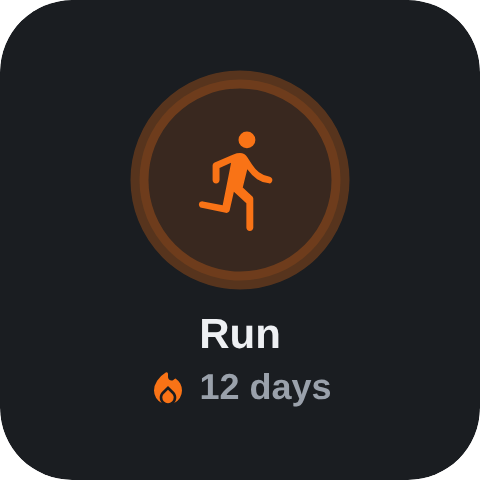
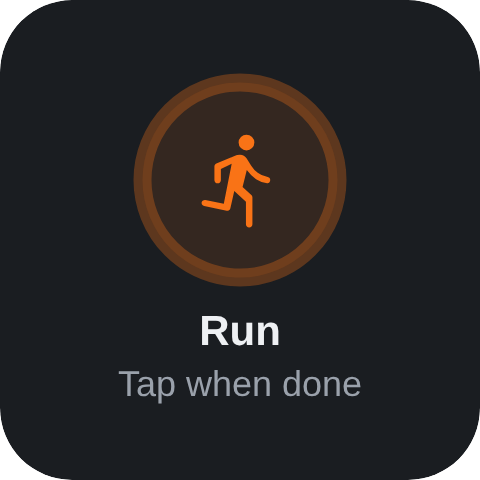
Single habit widget: 1x1 size and clearer states
- Can be placed from one cell up. 1x1 is just the ring: count habits keep
  their icon above "5/8"; done shows the icon with a check badge.
- 2x1/3x1 put the ring beside the name; 2x2 stacks them.
- Same button language as Today: count inside the ring, check when done,
  icon in an open ring when there's still something to do.
- Hint line says what a tap does ("Tap for +1", "Tap when done"), and
  the streak once it's done.
- Widgets page previews the new sizes (1x1, 2x1, 2x2; Today one row).

Claude-Session: https://claude.ai/code/session_01EoyMmteGNvxgjbaRmb7Gdn

diff --git a/src/widget/widgets.tsx b/src/widget/widgets.tsx
@@ -214,10 +214,26 @@ function Empty({ t, icon, title, body }: { t: Theme; icon: string; title: string
  * What a Today button shows in its middle, so its state reads without labels:
  * done = check mark on a solid disc; count habits = how far along ("3/20"); yes/no = the habit's icon.
  */
-function buttonSvg(r: TodayRow, size: number, t: Theme) {
+type ButtonState = Pick<TodayRow, 'done' | 'color' | 'slipped' | 'avoid' | 'numeric' | 'value' | 'target' | 'progress' | 'icon'>;
+
+function buttonSvg(r: ButtonState, size: number, t: Theme, iconWithCount = false) {
   const cx = size / 2;
   const stroke = Math.max(3, Math.round(size / 12));
   const ring = cx - stroke / 2 - 0.5;
+  if (r.done && iconWithCount) {
+    // Alone on a 1x1: keep the habit's icon so you know which one is done, with a check badge.
+    const s = size * 0.46;
+    const b = size * 0.17;
+    const bx = cx + size * 0.27;
+    return (
+      svgOpen(size) +
+      `<circle cx="${cx}" cy="${cx}" r="${cx - 0.5}" fill="${r.color}"/>` +
+      glyph(HABIT_ICONS[r.icon].d, '#ffffff', cx - s / 2, cx - s / 2 - size * 0.02, s) +
+      `<circle cx="${bx}" cy="${bx}" r="${b}" fill="#ffffff"/>` +
+      glyph(UI_ICONS.check, r.color, bx - b * 0.75, bx - b * 0.75, b * 1.5) +
+      `</svg>`
+    );
+  }
   if (r.done) {
     const s = size * 0.5;
     return svgOpen(size) + `<circle cx="${cx}" cy="${cx}" r="${cx - 0.5}" fill="${r.color}"/>` + glyph(UI_ICONS.check, '#ffffff', cx - s / 2, cx - s / 2, s) + `</svg>`;
@@ -226,6 +242,20 @@ function buttonSvg(r: TodayRow, size: number, t: Theme) {
   const track =
     `<circle cx="${cx}" cy="${cx}" r="${ring}" fill="${tone}" fill-opacity="0.12" stroke="${tone}" stroke-opacity="${r.slipped ? 1 : 0.3}" stroke-width="${stroke}"/>` +
     (r.numeric ? arc(cx, ring, stroke, r.color, r.progress) : '');
+  if (r.numeric && iconWithCount) {
+    // No name next to it (e.g. a 1x1 widget): keep the habit's icon on top so you know which one it is.
+    const ic = size * 0.22;
+    const big = Math.round(size * (String(r.value).length > 3 ? 0.2 : 0.26));
+    const small = Math.round(size * (String(r.target).length > 3 ? 0.12 : 0.15));
+    return (
+      svgOpen(size) +
+      track +
+      glyph(HABIT_ICONS[r.icon].d, r.color, cx - ic / 2, cx - size * 0.34, ic) +
+      `<text x="${cx}" y="${cx + size * 0.1}" text-anchor="middle" font-family="sans-serif" font-weight="bold" font-size="${big}" fill="${t.text}">${r.value}</text>` +
+      `<text x="${cx}" y="${cx + size * 0.27}" text-anchor="middle" font-family="sans-serif" font-size="${small}" fill="${t.sub}">/${r.target}</text>` +
+      `</svg>`
+    );
+  }
   if (r.numeric) {
     // Big number done, small goal under it. Shrinks for long numbers like 1500/2000.
     const big = Math.round(size * (String(r.value).length > 3 ? 0.24 : 0.32));
@@ -374,54 +404,80 @@ export function TodayWidget({ data, dark, size }: { data: WidgetData; dark: bool
 
 /* ---------- Single habit ---------- */
 
+/** One line under a single-habit widget: what a tap does, or once done, the streak it protects. */
+function habitHint(card: HabitCard, t: Theme): { text: string; icon?: string; color: HexColor } {
+  if (card.avoid)
+    return card.slipped
+      ? { text: 'Slipped today', icon: UI_ICONS['shield-fill'], color: t.danger }
+      : { text: `${card.streak} ${card.streak === 1 ? 'day' : 'days'} clean`, icon: UI_ICONS['shield-fill'], color: card.color };
+  if (card.done)
+    return card.streak > 0
+      ? { text: `${card.streak} ${card.streakUnit}`, icon: UI_ICONS['streak-fill'], color: FLAME }
+      : { text: 'Done for today', color: card.color };
+  if (card.numeric) return { text: `Tap for +${card.step}${card.unit === 'min' ? ' min' : ''}`, color: t.sub };
+  return { text: card.dueToday ? 'Tap when done' : 'Not due today', color: t.sub };
+}
+
+function Hint({ hint, t, center }: { hint: ReturnType<typeof habitHint>; t: Theme; center?: boolean }) {
+  return (
+    <FlexWidget style={{ flexDirection: 'row', alignItems: 'center', justifyContent: center ? 'center' : 'flex-start', marginTop: 2 }}>
+      {hint.icon ? <Svg svg={iconSvg(hint.icon, hint.color, 14)} size={14} mr={3} /> : null}
+      <TextWidget text={hint.text} maxLines={1} truncate="END" style={{ fontSize: 12, fontWeight: hint.icon ? 'bold' : 'normal', color: hint.icon ? t.sub : hint.color }} />
+    </FlexWidget>
+  );
+}
+
 export function HabitWidget({ card, widgetId, dark, size }: { card: HabitCard | null; widgetId: number; dark: boolean; size: Size }) {
   const t = theme(dark);
+  const tiny = size.width < 100 || size.height < 100;
   if (!card) {
     return (
       <FlexWidget
         clickAction="OPEN_URI"
         clickActionData={{ uri: `${WIDGET_SCHEME}widget-setup?widgetId=${widgetId}` }}
-        style={{ ...root(t), justifyContent: 'center', alignItems: 'center' }}>
-        <FlexWidget style={{ width: 44, height: 44, borderRadius: 22, backgroundColor: t.card, alignItems: 'center', justifyContent: 'center' }}>
-          <Svg svg={iconSvg(UI_ICONS.add, t.accent, 26)} size={26} />
+        style={{ ...root(t, tiny ? 6 : 12), justifyContent: 'center', alignItems: 'center' }}>
+        <FlexWidget style={{ width: 40, height: 40, borderRadius: 20, backgroundColor: t.card, alignItems: 'center', justifyContent: 'center' }}>
+          <Svg svg={iconSvg(UI_ICONS.add, t.accent, 24)} size={24} />
         </FlexWidget>
-        <TextWidget text="Choose a habit" style={{ fontSize: 13, fontWeight: 'bold', color: t.text, marginTop: 8 }} />
+        {size.height >= 90 || size.width >= 150 ? (
+          <TextWidget text="Choose a habit" maxLines={1} style={{ fontSize: 13, fontWeight: 'bold', color: t.text, marginTop: 4 }} />
+        ) : null}
       </FlexWidget>
     );
   }
-  const badge = clamp(Math.round(Math.min(size.width, size.height) * 0.46), 44, 96);
-  const sub =
-    card.avoid
-      ? { icon: UI_ICONS['shield-fill'], color: card.slipped ? t.danger : card.color, text: card.slipped ? 'Slipped today' : `${card.streak} days clean` }
-      : card.streak > 0
-        ? { icon: UI_ICONS['streak-fill'], color: FLAME, text: `${card.streak} ${card.streakUnit}` }
-        : null;
-  return (
-    <FlexWidget
-      clickAction={card.tappable ? 'TAP' : 'OPEN_APP'}
-      clickActionData={{ habitId: card.id }}
-      style={{ ...root(t, 10), alignItems: 'center', justifyContent: 'center' }}>
-      <Svg
-        svg={badgeSvg({ icon: card.icon, color: card.color, progress: card.avoid ? 0 : card.progress, done: card.done, size: badge, t, warn: card.slipped })}
-        size={badge}
-      />
-      <TextWidget
-        text={card.name}
-        maxLines={1}
-        truncate="END"
-        style={{ fontSize: 14, fontWeight: 'bold', color: t.text, marginTop: 6, textAlign: 'center' }}
-      />
-      {/* Count habits show progress; everything else shows the streak it protects. */}
-      {!card.done && !card.avoid && card.status !== 'Tap to log' ? (
-        <TextWidget text={card.status} maxLines={1} style={{ fontSize: 12, color: t.sub }} />
-      ) : sub ? (
-        <FlexWidget style={{ flexDirection: 'row', alignItems: 'center', marginTop: 1 }}>
-          <Svg svg={iconSvg(sub.icon, sub.color, 14)} size={14} mr={3} />
-          <TextWidget text={sub.text} maxLines={1} style={{ fontSize: 12, fontWeight: 'bold', color: t.sub }} />
+  const state = { ...card, progress: card.avoid ? 0 : card.progress };
+  const tap = { clickAction: card.tappable ? 'TAP' : 'OPEN_APP', clickActionData: { habitId: card.id } } as const;
+
+  // Wide and short (2x1, 3x1): ring on the left, name and hint beside it.
+  if (size.height < 100 && size.width >= 150) {
+    const badge = clamp(size.height - 16, 32, Math.min(76, Math.round(size.width * 0.3)));
+    return (
+      <FlexWidget {...tap} style={{ ...root(t, 8), flexDirection: 'row', alignItems: 'center', paddingHorizontal: 10 }}>
+        <Svg svg={buttonSvg(state, badge, t)} size={badge} mr={10} />
+        <FlexWidget style={{ flex: 1 }}>
+          <TextWidget text={card.name} maxLines={1} truncate="END" style={{ fontSize: 14, fontWeight: 'bold', color: t.text }} />
+          {size.height >= 56 ? <Hint hint={habitHint(card, t)} t={t} /> : null}
         </FlexWidget>
-      ) : (
-        <TextWidget text={card.done ? 'Done' : 'Tap to log'} maxLines={1} style={{ fontSize: 12, color: card.done ? card.color : t.sub }} />
-      )}
+      </FlexWidget>
+    );
+  }
+
+  // 1x1 (or narrow): just the ring, as big as fits. Count habits keep their icon inside.
+  if (tiny) {
+    const badge = Math.max(28, Math.min(size.width, size.height) - 12);
+    return (
+      <FlexWidget {...tap} style={{ ...root(t, 6), alignItems: 'center', justifyContent: 'center', borderRadius: Math.min(24, badge / 2 + 6) }}>
+        <Svg svg={buttonSvg(state, badge, t, true)} size={badge} />
+      </FlexWidget>
+    );
+  }
+
+  const badge = clamp(Math.round(Math.min(size.width, size.height * 0.9) * 0.5), 44, 104);
+  return (
+    <FlexWidget {...tap} style={{ ...root(t, 10), alignItems: 'center', justifyContent: 'center' }}>
+      <Svg svg={buttonSvg(state, badge, t)} size={badge} />
+      <TextWidget text={card.name} maxLines={1} truncate="END" style={{ fontSize: 14, fontWeight: 'bold', color: t.text, marginTop: 6, textAlign: 'center' }} />
+      <Hint hint={habitHint(card, t)} t={t} center />
     </FlexWidget>
   );
 }

diff --git a/src/app/widgets.tsx b/src/app/widgets.tsx
@@ -13,15 +13,25 @@ const LIST: { name: string; title: string; about: string; sizes: { label: string
   {
     name: WIDGETS.today,
     title: 'Habits today',
-    about: 'Tap a habit to log it. Small, it’s a row of buttons; stretch it taller for a checklist.',
+    about: 'Tap a habit to log it. Counts fill toward the goal, done habits get a check. Stretch it taller for a checklist.',
     sizes: [
-      { label: 'Small', w: 320, h: 130 },
+      { label: 'One row', w: 320, h: 72 },
+      { label: 'Two rows', w: 320, h: 140 },
       { label: 'Tall', w: 320, h: 260 },
     ],
   },
   { name: WIDGETS.streaks, title: 'Streaks', about: 'Today’s progress and the streaks you’re protecting.', sizes: [{ label: '', w: 320, h: 150 }] },
   { name: WIDGETS.week, title: 'Week view', about: 'The last 7 days for each habit at a glance.', sizes: [{ label: '', w: 320, h: 190 }] },
-  { name: WIDGETS.habit, title: 'Single habit', about: 'One habit, one tap. Place as many as you like.', sizes: [{ label: '', w: 150, h: 150 }] },
+  {
+    name: WIDGETS.habit,
+    title: 'Single habit',
+    about: 'One habit, one tap. From a single cell up; place as many as you like.',
+    sizes: [
+      { label: '1x1', w: 72, h: 72 },
+      { label: '2x1', w: 170, h: 72 },
+      { label: '2x2', w: 150, h: 150 },
+    ],
+  },
 ];
 
 export default function WidgetsScreen() {

diff --git a/src/widget/model.ts b/src/widget/model.ts
@@ -1,5 +1,6 @@
 import type { HexColor } from 'react-native-android-widget';
 
+import { stepOf } from '@/data/actions';
 import { buildIndex, loadAll } from '@/data/db';
 import { addDays, todayKey, weekday } from '@/lib/dates';
 import { habitIcon, type HabitIconName } from '@/lib/habit-icon';
@@ -50,6 +51,13 @@ export interface HabitCard {
   streakUnit: string;
   message: string;
   tappable: boolean;
+  /** Count/duration habits: logged amount, daily goal and what one tap adds. */
+  numeric: boolean;
+  value: number;
+  target: number;
+  step: number;
+  unit: string;
+  dueToday: boolean;
 }
 
 export interface WeekRow {
@@ -150,6 +158,12 @@ export async function buildWidgetData(): Promise<WidgetData> {
       streakUnit: unit,
       message,
       tappable: h.kind !== 'avoid',
+      numeric: h.kind === 'count' || h.kind === 'duration',
+      value,
+      target: h.target,
+      step: stepOf(h),
+      unit: h.kind === 'duration' ? 'min' : h.unit,
+      dueToday: !!i?.dueToday,
     });
   }
 
